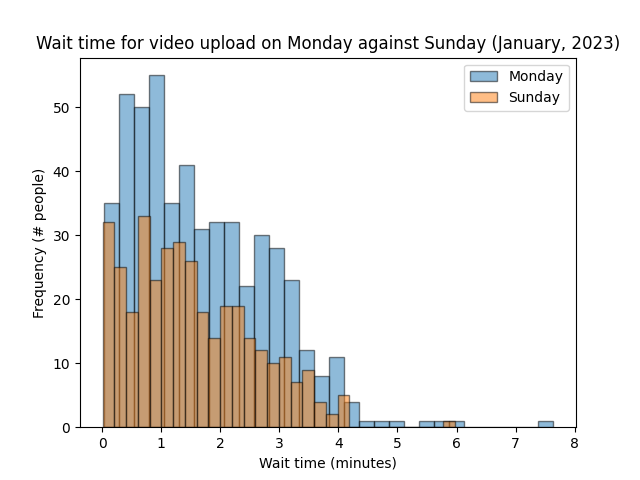
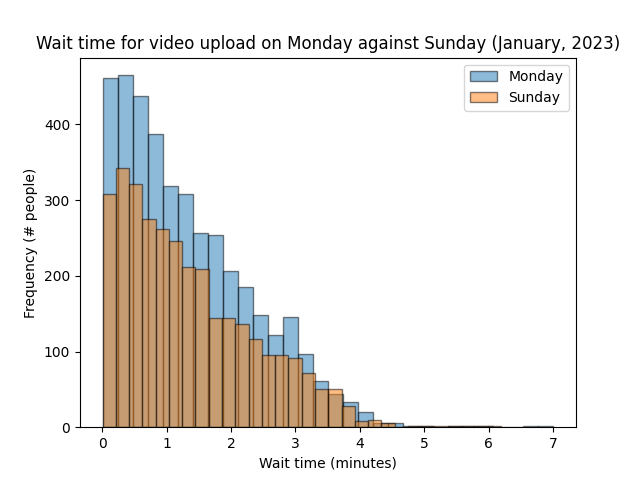
Fix round robin

diff --git a/newplace.py b/newplace.py
@@ -65,13 +65,13 @@ def maybe_record(env,ride):
 
     if random.uniform(0,1) > prob:
         return (None, None)
-    
+                
     duration_of_video = get_uniform_range(180, min(1800, ride.duration))
     accident_video = get_uniform_range(60, 900) if get_uniform_range(0, 1) > 0.05 else 0
     amount_mb = duration_of_video*45 + accident_video*22.5
 
-    reply = ccf.open_connection(env, amount_mb, 1010)
-    return reply
+    return ccf.open_connection(env, amount_mb, 126.25)
+    # return max(0,amount_mb-ride.duration*126.25)
 
 def maybe_close(reply):
     if reply[0] is None:
@@ -173,5 +173,5 @@ plt.legend(loc='upper right')
 plt.xlabel('Wait time (minutes)')
 plt.ylabel('Frequency (# people)')
 plt.title(f'Wait time for video upload on Monday against Sunday (January, 2023)')
-plt.savefig(f"dummy.png")
+plt.savefig(f"january_infinite_connections.png")
 plt.clf()
